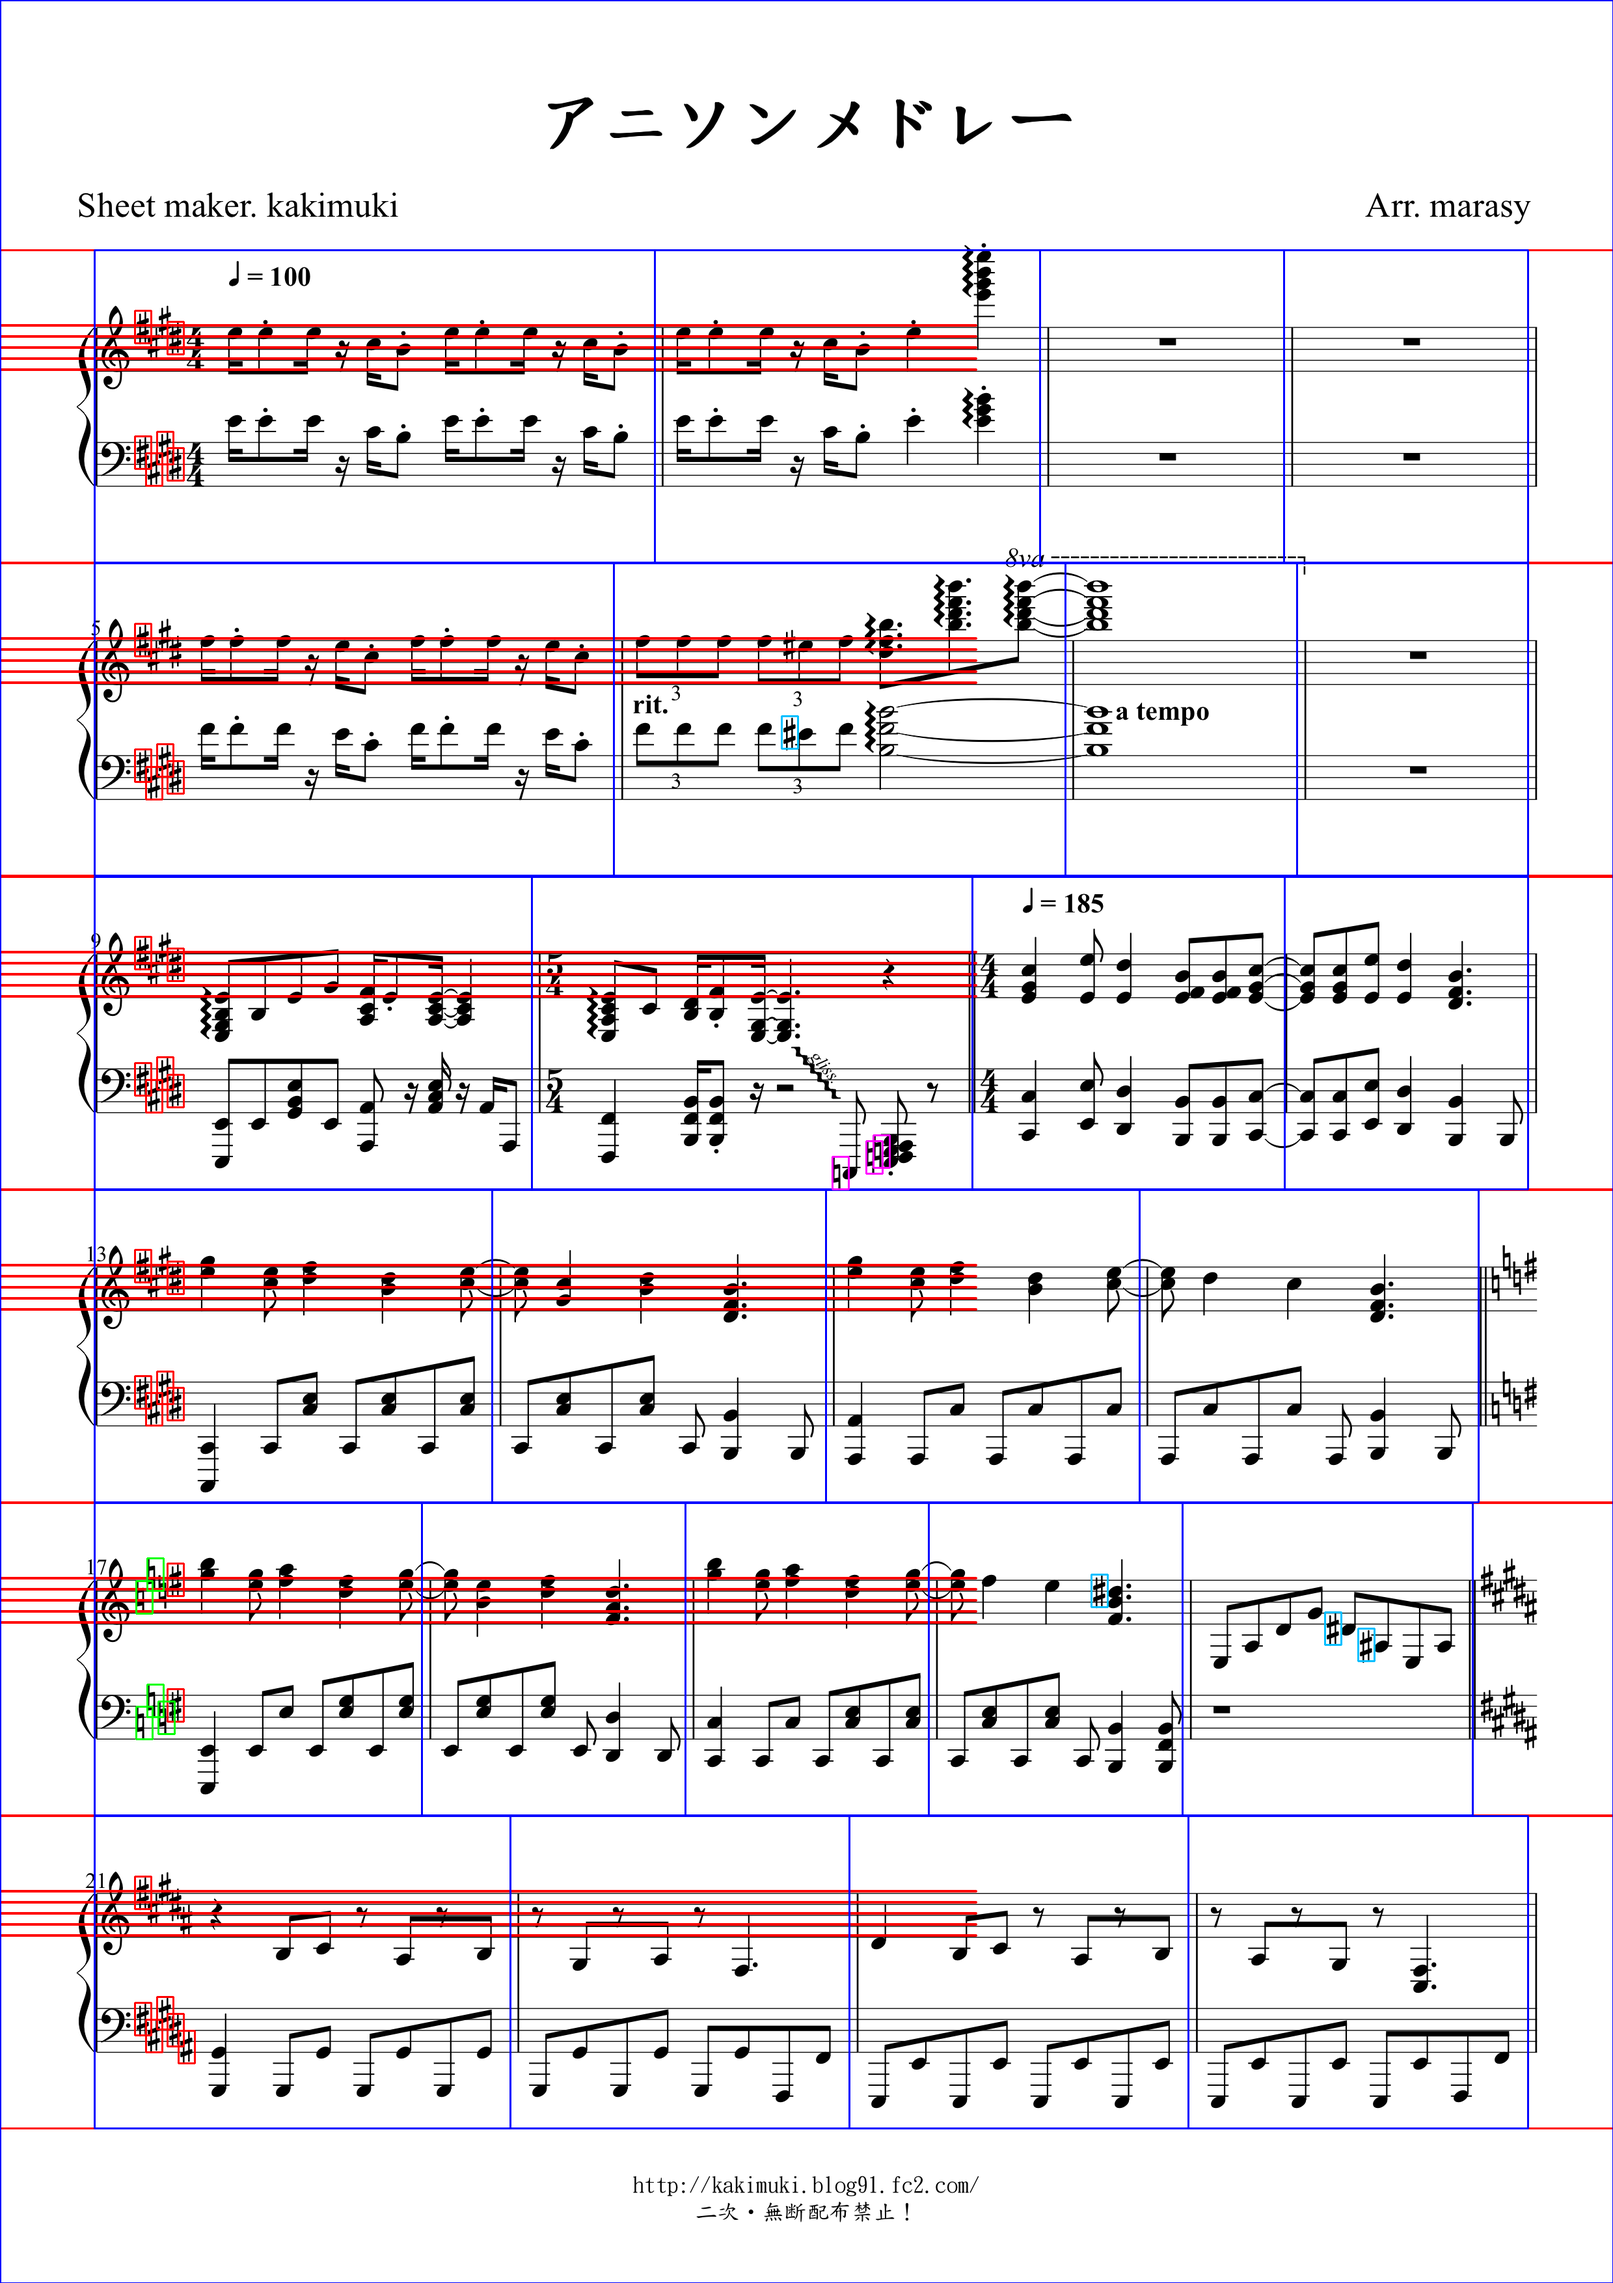
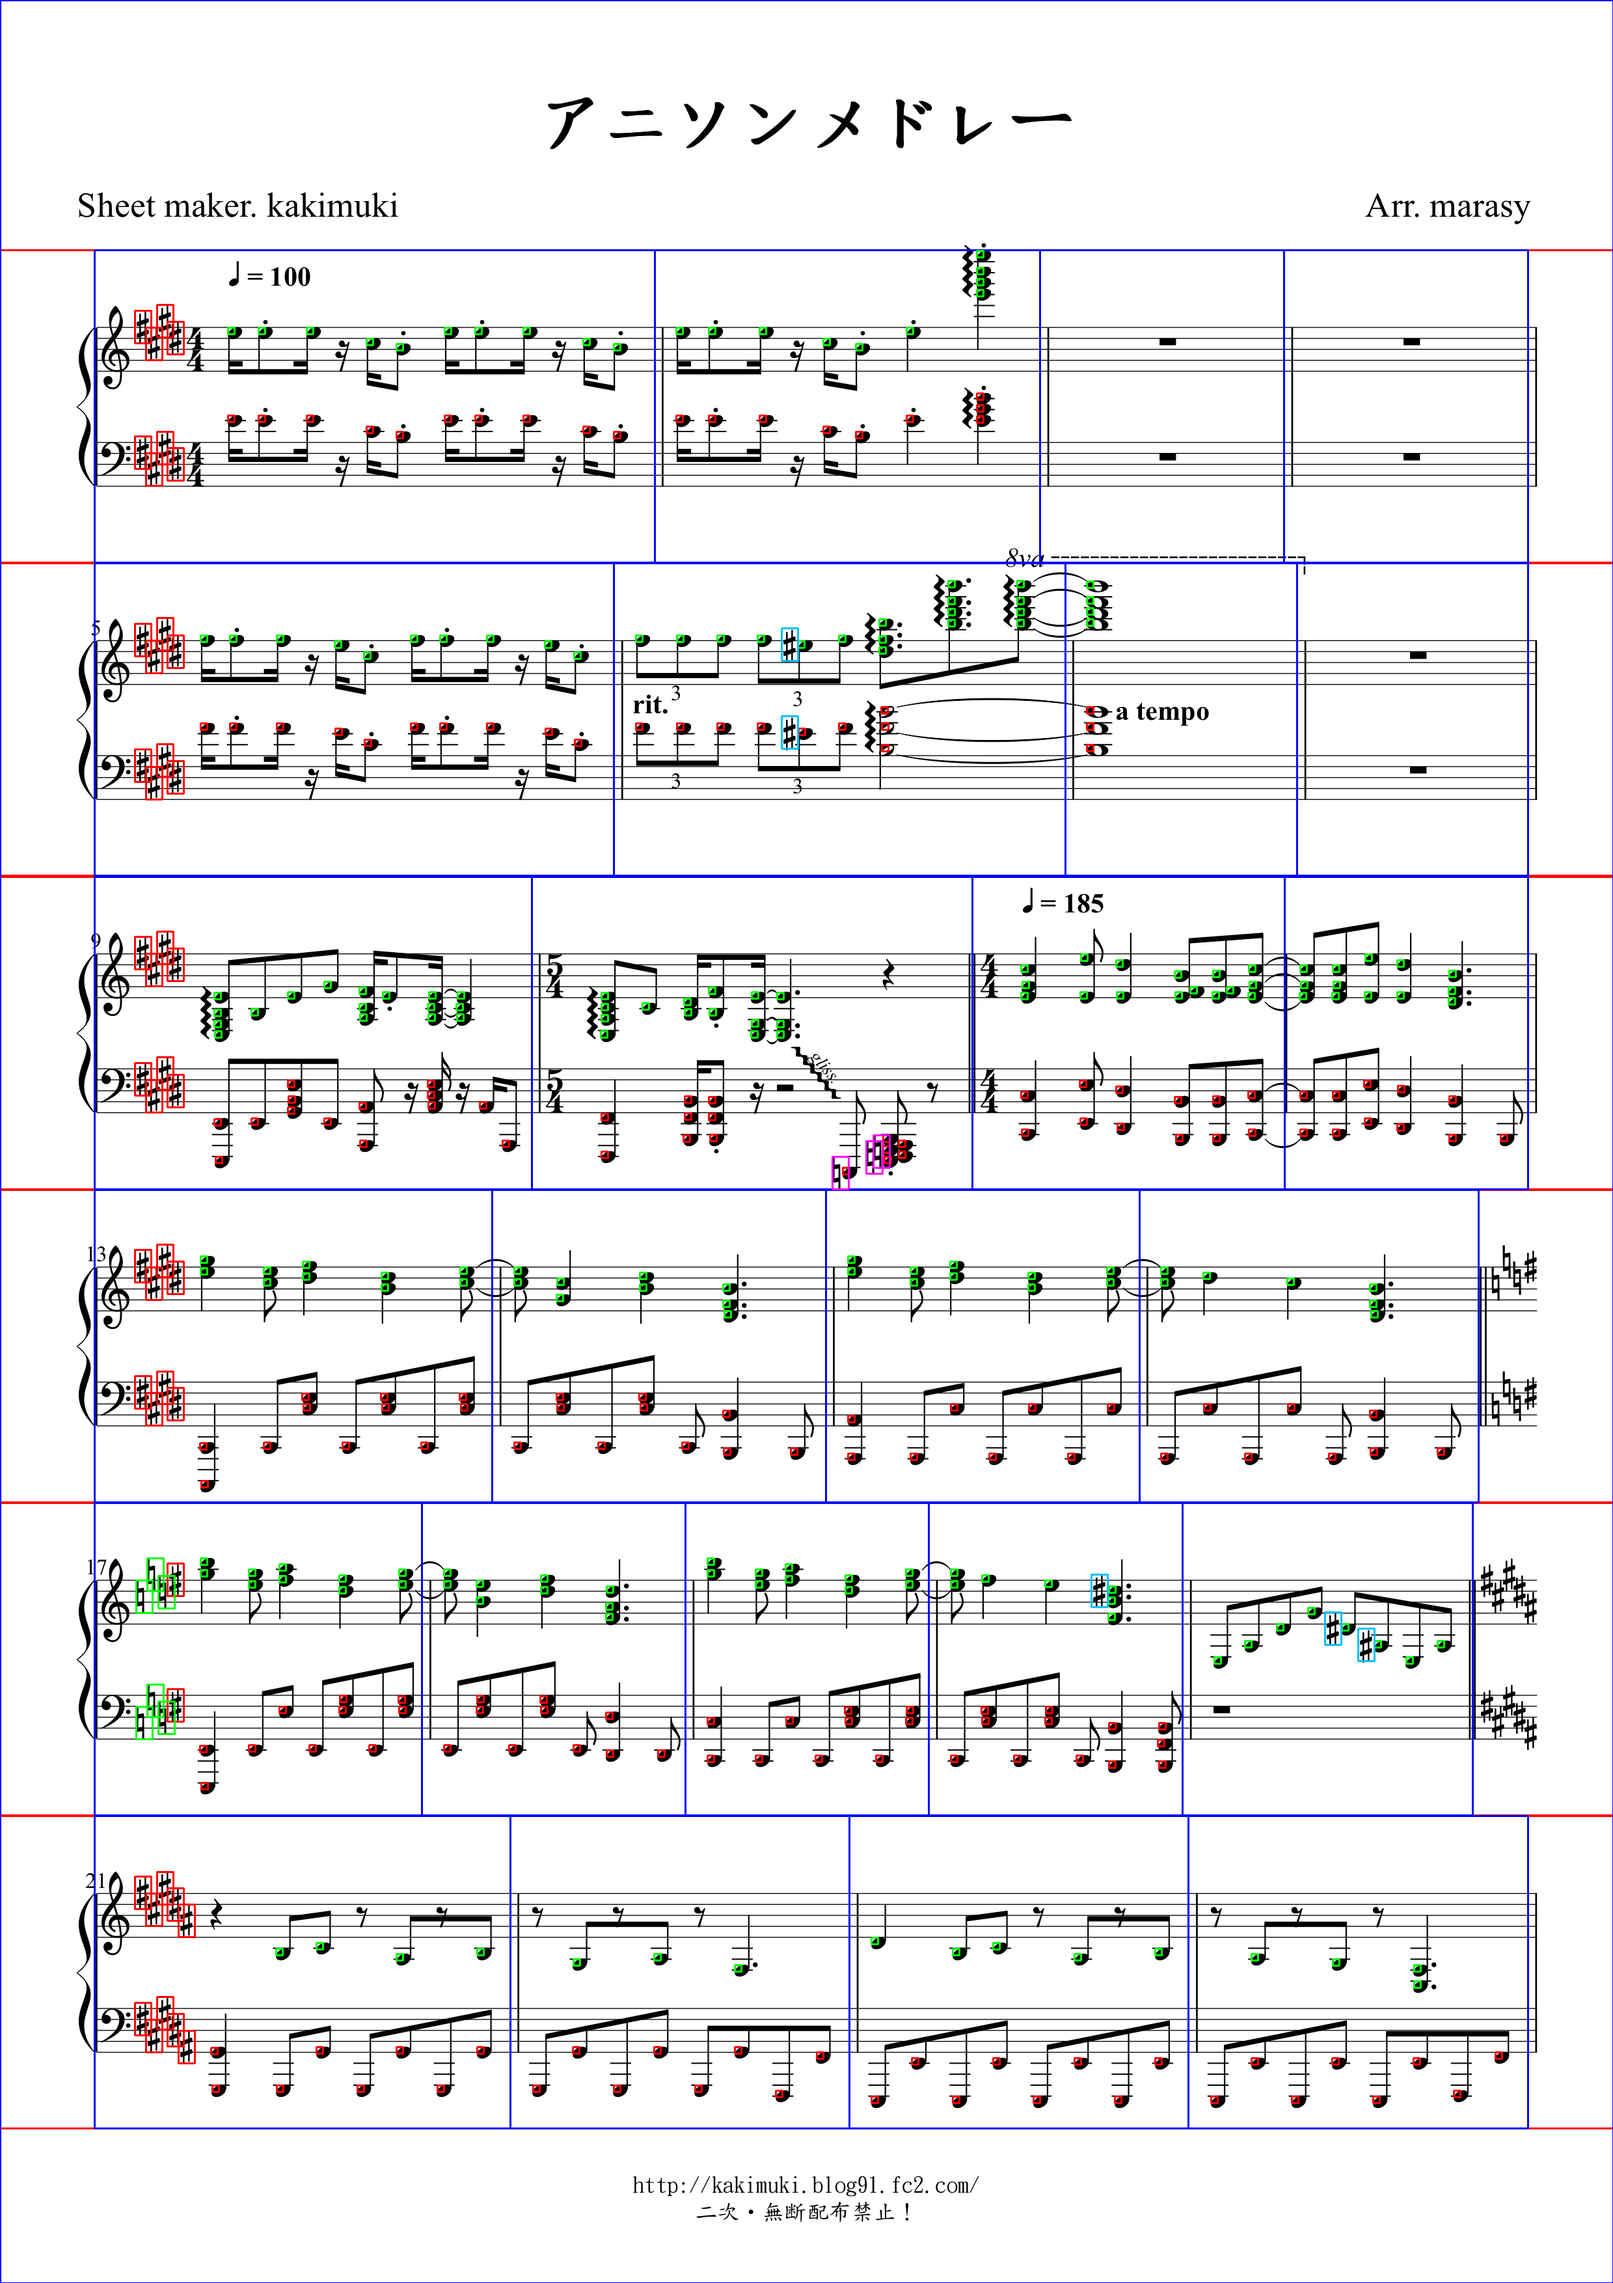
implement algorithm to divide notes into top/bottom part

diff --git a/src/bar.py b/src/bar.py
@@ -1,6 +1,7 @@
 from src.tools import *
 from src.constants import *
 from src.note import *
+import copy
 
 class Bar:
 
@@ -22,6 +23,16 @@ class Bar:
 
     notes = None
 
+    line_height_A = None
+
+    line_height_B = None
+
+    line_height_C = None
+
+    line_height_D = None
+
+    note_height = None
+
     def __init__(self, image, top_left_point, width, line_height, line_gap):
         self.image = image
         self.top_left_point = top_left_point
@@ -32,6 +43,14 @@ class Bar:
         self.bar_flat_points = []
         self.bar_natural_points = []
         self.notes = []
+
+        self.note_height = line_height/13.5
+
+        self.line_height_A = top_left_point[1]+line_gap
+        self.line_height_D = self.line_height_A+line_height
+        self.line_height_B = self.line_height_A+int(4*self.note_height)
+
+        self.line_height_C = self.line_height_D-int(4*self.note_height)
 
         
         
@@ -56,20 +75,38 @@ class Bar:
             if self.contains(note_point):
                 bar_note_points.append(note_point)
 
-        vertical_groups = []
-        for note_point in bar_note_points:
-            keep = True
-            for vertical_group in vertical_groups:
-                vertical_point = vertical_group[0]
-                if in_the_same_vertical_line(vertical_point, note_point, 3):
-                    exist = False
-                    vertical_group.append(note_point)
-            if keep:
-                vertical_group = []
-                vertical_group.append(note_point)
-                vertical_groups.append(vertical_group)
+        top_note_points = []
+        bottom_note_points = []
+        middle_note_points = []
 
-        print(vertical_groups)
+        for point in bar_note_points:
+            if point[1] <= self.line_height_B:
+                self.notes.append(Note(self.image, point, 'top'))
+                top_note_points.append(point)
+                # draw_one_rectangle(self.image, point, 10, 10, green)
+            elif point[1] >= self.line_height_C:
+                self.notes.append(Note(self.image, point, 'bottom'))
+                bottom_note_points.append(point)
+                # draw_one_rectangle(self.image, point, 10, 10, red)
+            else:
+                middle_note_points.append(point)
+
+        middle_note_points.sort(key=lambda point : point[1])
+        num = len(middle_note_points)
+        is_top = True
+        if num > 0:
+            hi = middle_note_points[0]
+            lo = middle_note_points[num-1]
+            is_top = abs(hi[1]-self.line_height_B) < abs(lo[1]-self.line_height_C)
+        print(is_top)
+
+        if is_top:
+            top_note_points = middle_note_points+top_note_points
+        else:
+            bottom_note_points = middle_note_points+bottom_note_points
+
+        draw_all_rectangles(self.image, top_note_points, 10, 10, green)
+        draw_all_rectangles(self.image, bottom_note_points, 10, 10, red)
     
     def contains(self, point):
         x = point[0]

diff --git a/src/line.py b/src/line.py
@@ -39,11 +39,20 @@ class Line:
 
         self.construct_bars(all_bar_line_points)
 
-        note_height = int(line_height/14)
+        note_height = line_height/13.5
+
+        # fa_line_top_left_point = (top_left_point[0], top_left_point[1]+line_gap)
+        # draw_one_rectangle(self.image, fa_line_top_left_point, 1500, 1, red)
+
+        # fa_line_top_left_point = (top_left_point[0], top_left_point[1]+line_gap+int(note_height*14))
+        # draw_one_rectangle(self.image, fa_line_top_left_point, 1500, 1, red)
         
-        for i in range(0, 5):
-            fa_line_top_left_point = (top_left_point[0], top_left_point[1]+line_gap+i*note_height)
-            draw_one_rectangle(self.image, fa_line_top_left_point, 1500, 1, red)
+        # for i in range(0, 10):
+        #     fa_line_top_left_point = (top_left_point[0], top_left_point[1]+line_gap+int(i*note_height))
+        #     draw_one_rectangle(self.image, fa_line_top_left_point, 1500, 1, red)
+        # for i in range(10, 15):
+        #     fa_line_top_left_point = (top_left_point[0], top_left_point[1]+line_gap+i*note_height)
+        #     draw_one_rectangle(self.image, fa_line_top_left_point, 1500, 1, red)
 
         # draw_one_rectangle(self.image, fa_line_top_left_point, 1500, 2, red)
 

diff --git a/src/note.py b/src/note.py
@@ -6,6 +6,7 @@ class Note:
 
     pos = None
 
-    def __init__(self, image, top_left_point):
+    def __init__(self, image, top_left_point, pos):
         self.image = image
         self.top_left_point = top_left_point
+        self.pos = pos
